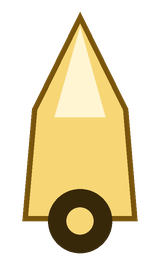
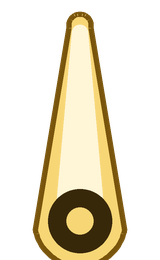
fix(pointer): draw and push the tongue like something hung on a pin
The tongue's silhouette was a free-hand curve that knew nothing about the
pin it turns on: the pin was a dot stamped somewhere near the base, its
radius meant nothing to the body, and the body's back lobe had no reason to
be the shape it was. It did not read as a hinge because it was not one.

GraphicsPointerSkin now builds every shape from one body: the hull of a
boss circle centred exactly on the pin and a tip circle whose far edge
lands exactly on `length`, so the pin-to-tip distance the ring seats the
pointer by is the distance you can measure on screen. New `pinRadius`
sizes the pin; the boss grows to clear it, so a fat pin gives a heavier
hinge, and the pin is drawn as a cap with a hole rather than a filled dot.
'triangle' and 'needle' come off the same construction.

The contact model was equally free with the geometry: it deflected the
tongue from a peg ring that could be anywhere, including under the tip or
outside the pin, where no peg could reach it. `Pointer` now checks that the
peg ring runs between the pin and the tip, and stays still with one warning
if it does not. New `Pointer.tipRadius` and `Pointer.reaches(pegs)`.

The anatomy figure had it backwards too - pegs drawn deeper than the tip -
and is redrawn to real proportions: pegs just inside the rim, the tip past
them, the pin outside the wheel, and the lever the peg actually turns.

diff --git a/packages/pixi-wheels/src/pointer/GraphicsPointerSkin.ts b/packages/pixi-wheels/src/pointer/GraphicsPointerSkin.ts
@@ -18,6 +18,39 @@ export interface GraphicsPointerSkinOptions {
   shape?: 'tongue' | 'triangle' | 'needle';
   /** Draw the pin cap at the base. Default true. */
   pin?: boolean;
+  /**
+   * Radius of the pin the flapper is hung on, px. The boss - the round heel
+   * the pin sits in - is sized to clear it, so a fat pin gives a heavier
+   * looking hinge. Default a little under a quarter of `width`.
+   */
+  pinRadius?: number;
+}
+
+/**
+ * Outline the convex hull of two circles: the boss around the pin at the
+ * origin, and the tip `L` away. Every shape here is that hull, which is what
+ * a flapper hung on a pin actually looks like - a round heel the pin turns
+ * in, tapering to whatever the tip is. The far edge of the tip circle lands
+ * exactly on `L`, so the pin-to-tip length the ring seats the pointer by is
+ * the length you can measure on screen.
+ */
+function hingedBody(g: Graphics, L: number, boss: number, tip: number): void {
+  const centre = Math.max(1, L - tip);
+  if (centre <= Math.abs(boss - tip)) {
+    // Degenerate: the tip circle is swallowed by the boss. Draw the boss alone.
+    g.circle(0, 0, Math.max(boss, tip));
+    return;
+  }
+  const a = Math.asin((boss - tip) / centre);
+  const sin = Math.sin(a);
+  const cos = Math.cos(a);
+  const near = Math.atan2(-cos, -sin); // where the upper tangent leaves a circle
+  const far = Math.atan2(cos, -sin); //  and where the lower one does
+  g.moveTo(-boss * sin, -boss * cos);
+  g.lineTo(centre - tip * sin, -tip * cos);
+  g.arc(centre, 0, tip, near, far, false); // round the tip, front first
+  g.arc(0, 0, boss, far, near, false); //    round the heel, behind the pin
+  g.closePath();
 }
 
 /** A pointer drawn with `Graphics`. The out-of-the-box tongue. */
@@ -37,24 +70,18 @@ export class GraphicsPointerSkin implements PointerSkin {
     const g = this._body;
     const L = this.length;
     const w = width / 2;
-    if (shape === 'triangle') {
-      g.moveTo(-w * 0.4, -w).lineTo(L, 0).lineTo(-w * 0.4, w).closePath();
-    } else if (shape === 'needle') {
-      g.moveTo(0, -w * 0.25).lineTo(L, 0).lineTo(0, w * 0.25).closePath();
-    } else {
-      // Tongue: a rounded base tapering to a soft point.
-      g.moveTo(-w * 0.9, 0);
-      g.bezierCurveTo(-w * 0.9, -w, 0, -w, w * 0.6, -w * 0.85);
-      g.bezierCurveTo(L * 0.55, -w * 0.55, L * 0.85, -w * 0.2, L, 0);
-      g.bezierCurveTo(L * 0.85, w * 0.2, L * 0.55, w * 0.55, w * 0.6, w * 0.85);
-      g.bezierCurveTo(0, w, -w * 0.9, w, -w * 0.9, 0);
-      g.closePath();
-    }
+    const pinRadius = Math.max(2.5, options.pinRadius ?? width * 0.22);
+    // The boss has to hold the pin: never thinner than the pin plus a wall.
+    const boss = Math.max(pinRadius * 1.55, shape === 'needle' ? w * 0.5 : w);
+    const tip = shape === 'tongue' ? w * 0.2 : Math.max(1.2, w * 0.07);
+    hingedBody(g, L, boss, tip);
     g.fill({ color });
     if (outline !== null) g.stroke({ color: outline, width: outlineWidth, join: 'round' });
     if (options.pin ?? true) {
-      g.circle(0, 0, Math.max(3, w * 0.32)).fill({ color: outline ?? 0x000000, alpha: 0.85 });
-      g.circle(0, 0, Math.max(1.5, w * 0.16)).fill({ color, alpha: 0.9 });
+      // A pin, not a dot: a cap with a hole, centred on the axis it turns about.
+      g.circle(0, 0, pinRadius).fill({ color: outline ?? 0x000000, alpha: 0.85 });
+      g.circle(0, 0, pinRadius * 0.45).fill({ color, alpha: 0.95 });
+      if (outline !== null) g.circle(0, 0, pinRadius).stroke({ color: outline, width: Math.max(1, outlineWidth * 0.5) });
     }
     this.view.addChild(g);
   }

diff --git a/packages/pixi-wheels/src/pointer/Pointer.ts b/packages/pixi-wheels/src/pointer/Pointer.ts
@@ -5,6 +5,7 @@ import type { RingGeometry } from '../core/RingGeometry.js';
 import { localAngleUnderPointer } from '../core/RingGeometry.js';
 import { DEG_TO_RAD, RAD_TO_DEG, clamp, normalizeDeg, signedDeg } from '../utils/angles.js';
 import type { Disposable } from '../utils/Disposable.js';
+import { noticeWarnOnce } from '../utils/notify.js';
 import type { PointerSkin } from './PointerSkin.js';
 
 /** A divider crossing, as `Pointer.update()` reports it. */
@@ -35,6 +36,7 @@ export class Pointer implements Disposable {
   readonly skin: PointerSkin;
   private readonly _flap: Required<FlapConfig> | null;
   private _pinRadius = 0;
+  private _tipRadius = 0;
   private _deflection = 0;
   private _deflectionVel = 0;
   private _drag = 0;
@@ -62,12 +64,14 @@ export class Pointer implements Disposable {
       const tipRadius = outerRadius - this.tipInset;
       const baseRadius = tipRadius + this.skin.length;
       this._pinRadius = baseRadius;
+      this._tipRadius = tipRadius;
       this.view.position.set(Math.cos(a) * baseRadius, Math.sin(a) * baseRadius);
       this.view.rotation = a + Math.PI;
     } else {
       const tipRadius = innerRadius + this.tipInset;
       const baseRadius = tipRadius - this.skin.length;
       this._pinRadius = baseRadius;
+      this._tipRadius = tipRadius;
       this.view.position.set(Math.cos(a) * baseRadius, Math.sin(a) * baseRadius);
       this.view.rotation = a;
     }
@@ -101,6 +105,23 @@ export class Pointer implements Disposable {
   /** Distance from the pin to the hub, px, after `layout()`. */
   get pinRadius(): number {
     return this._pinRadius;
+  }
+
+  /** Distance from the tip to the hub, px, after `layout()`. */
+  get tipRadius(): number {
+    return this._tipRadius;
+  }
+
+  /**
+   * True when the peg ring runs under the tongue somewhere between its pin
+   * and its tip, which is the only way a peg can push it. Pegs deeper than
+   * the tip pass beneath it; pegs beyond the pin would have to strike the
+   * heel, which is not a thing a flapper does.
+   */
+  reaches(pegs: ResolvedPegs): boolean {
+    const lo = Math.min(this._pinRadius, this._tipRadius);
+    const hi = Math.max(this._pinRadius, this._tipRadius);
+    return pegs.radius >= lo && pegs.radius <= hi;
   }
 
   /** Half the width of the contact zone at the peg ring, px: peg radius plus half the tongue tip. */
@@ -176,7 +197,21 @@ export class Pointer implements Disposable {
    */
   private _contact(rotation: number, dt: number, pegs: ResolvedPegs, crossingCount: number): void {
     const f = this._flap!;
+    if (!this.reaches(pegs)) {
+      // Nothing to push it: let it settle rather than deflect out of thin air.
+      noticeWarnOnce(
+        `pointer-reach-${this.id}`,
+        `Pointer "${this.id}": the pegs sit at radius ${Math.round(pegs.radius)}, outside the tongue's ` +
+          `${Math.round(Math.min(this._tipRadius, this._pinRadius))}..${Math.round(Math.max(this._tipRadius, this._pinRadius))} reach, ` +
+          'so nothing touches it. Change pegs.inset, tipInset or the skin length.',
+      );
+      this._engaged = null;
+      this._releaseDrag(dt);
+      this._stepSpring(dt);
+      return;
+    }
     const c = this.contactHalfWidth(pegs);
+    // The lever: pin to the peg ring. A long tongue turns less for the same shove.
     const D = Math.max(1, Math.abs(this._pinRadius - pegs.radius));
     let bestIndex = -1;
     let bestX = Number.POSITIVE_INFINITY;

diff --git a/packages/pixi-wheels/tests/integration/pegs.test.ts b/packages/pixi-wheels/tests/integration/pegs.test.ts
@@ -43,6 +43,42 @@ describe('pegs', () => {
     }
   });
 
+  it('a peg ring the tongue cannot reach never moves it', () => {
+    // Default tipInset 18 and a 60 px skin put the tongue between r=182 and r=242.
+    const deep = createTestWheel({ sections: 6, startAngle: 0, pegs: { size: 6, inset: 40 } });
+    try {
+      const tongue = deep.wheel.main.pointers[0];
+      expect(deep.wheel.main.pegs!.radius).toBe(160);
+      expect(tongue.tipRadius).toBe(182);
+      expect(tongue.pinRadius).toBe(242);
+      expect(tongue.reaches(deep.wheel.main.pegs!)).toBe(false);
+      void deep.wheel.spin();
+      deep.wheel.setResult({ index: 1 });
+      while (deep.wheel.isSpinning) {
+        deep.ticker.tick(16);
+        expect(tongue.deflection).toBe(0);
+      }
+    } finally {
+      deep.destroy();
+    }
+
+    const ok = createTestWheel({ sections: 6, startAngle: 0, pegs: { size: 6, inset: 12 } });
+    try {
+      const tongue = ok.wheel.main.pointers[0];
+      expect(tongue.reaches(ok.wheel.main.pegs!)).toBe(true);
+      let peak = 0;
+      void ok.wheel.spin();
+      ok.wheel.setResult({ index: 1 });
+      while (ok.wheel.isSpinning) {
+        ok.ticker.tick(16);
+        peak = Math.max(peak, Math.abs(tongue.deflection));
+      }
+      expect(peak).toBeGreaterThan(1);
+    } finally {
+      ok.destroy();
+    }
+  });
+
   it('pegs(false) leaves the tongue still, and pegs round-trip through the config', () => {
     const ticker = new FakeTicker() as unknown as Ticker;
     // Config-shaped skins, so the wheel round-trips through toConfig() / fromConfig().

diff --git a/packages/pixi-wheels/src/testing/testHarness.ts b/packages/pixi-wheels/src/testing/testHarness.ts
@@ -59,6 +59,8 @@ export interface TestWheelOptions {
   skip?: SkipConfig;
   idle?: IdleConfig;
   dynamic?: Parameters<RingBuilder['dynamic']>[0];
+  /** Pegs for the main ring. Default: the builder's own (one per divider). */
+  pegs?: Parameters<RingBuilder['pegs']>[0];
   /** Extra rings. Each gets the headless skin and pointer. */
   rings?: Array<{ id: string; outerRadius: number; innerRadius: number; sections: WheelSectionConfig[]; direction?: SpinDirection; pointers?: PointerConfig[] }>;
   /** Random source. Default a fixed seeded generator, so tests are deterministic. */
@@ -126,6 +128,7 @@ export function createTestWheel(options: TestWheelOptions = {}): TestWheelHandle
   if (options.skip) builder.skip(options.skip);
   if (options.idle) builder.idle(options.idle);
   if (options.dynamic) builder.dynamic(options.dynamic);
+  if (options.pegs !== undefined) builder.pegs(options.pegs);
   for (const r of options.rings ?? []) {
     builder.ring(r.id, (rb) => {
       rb.radius(r.outerRadius, r.innerRadius).sections(r.sections).skin(new HeadlessRingSkin());

diff --git a/apps/site/src/styles/global.css b/apps/site/src/styles/global.css
@@ -173,6 +173,7 @@
     --fig-line: hsl(var(--foreground) / 0.22);
     --fig-wash: hsl(var(--foreground) / 0.05);
     --fig-key: #a9740c;
+    --fig-hole: hsl(var(--background));
   }
   .dark {
     --fig-line: hsl(var(--foreground) / 0.26);

diff --git a/tools/doc-figures/build_figures.py b/tools/doc-figures/build_figures.py
@@ -145,6 +145,29 @@ def arc_path(cx, cy, r, a0, a1):
     return f"M{f(x0)},{f(y0)} A{f(r)},{f(r)} 0 {large} {sweep} {f(x1)},{f(y1)}"
 
 
+def hinged_points(px, py, tx, ty, boss, tip, steps=36):
+    """The outline of a flapper hung on a pin: the hull of the boss circle at
+    the pin and the tip circle, sampled as a polygon. Same construction as
+    GraphicsPointerSkin, so the figure and the code agree."""
+    dx, dy = tx - px, ty - py
+    d = math.hypot(dx, dy)
+    ux, uy = dx / d, dy / d
+    nx, ny = -uy, ux
+    c = d - tip
+    a = math.asin(max(-1.0, min(1.0, (boss - tip) / c)))
+    to_global = lambda lx, ly: (px + lx * ux + ly * nx, py + lx * uy + ly * ny)
+    th1 = math.atan2(-math.cos(a), -math.sin(a))
+    th2 = math.atan2(math.cos(a), -math.sin(a))
+    pts = [to_global(-boss * math.sin(a), -boss * math.cos(a))]
+    for i in range(steps + 1):
+        th = th1 + (th2 - th1) * i / steps
+        pts.append(to_global(c + tip * math.cos(th), tip * math.sin(th)))
+    for i in range(steps + 1):
+        th = th2 + (th1 + 2 * math.pi - th2) * i / steps
+        pts.append(to_global(boss * math.cos(th), boss * math.sin(th)))
+    return pts
+
+
 # ------------------------------------------------------------- disc diagrams
 
 def fig_disc_layers():
@@ -324,38 +347,43 @@ def fig_label_slot():
 # ----------------------------------------------------------- tongue diagrams
 
 def fig_tongue_anatomy():
-    s = Svg(380, "Where the tongue sits and what it touches")
+    s = Svg(430, "Where the tongue sits and what it touches")
     s.markers()
-    cx, cy, R = 400, 720, 540
+    # Real proportions: the pegs sit just inside the rim, the tip reaches past
+    # them, and the pin floats outside the wheel entirely.
+    cx, cy, R = 400, 920, 640
+    peg_r = R - 26
+    tip_r = R - 46
+    pin_r = tip_r + 152
+
     s.circle(cx, cy, R, stroke=INK, width=2)
-    peg_r = R - 42
     s.circle(cx, cy, peg_r, stroke=LINE, width=1.3, dash="5 5")
-    for k in range(-5, 6):
-        x, y = polar(cx, cy, peg_r, -90 + k * 8)
-        s.circle(x, y, 11, fill=WASH, stroke=KEY, width=1.8)
+    for k in range(-4, 5):
+        x, y = polar(cx, cy, peg_r, -90 + k * 7)
+        s.circle(x, y, 13, fill=WASH, stroke=KEY, width=2)
 
-    tipy = cy - (R - 22)
-    piny = tipy - 104
-    s.path(
-        f"M{cx - 26},{f(piny)} C{cx - 28},{f(piny + 52)} {cx - 16},{f(tipy - 14)} {cx},{f(tipy)} "
-        f"C{cx + 16},{f(tipy - 14)} {cx + 28},{f(piny + 52)} {cx + 26},{f(piny)} z",
-        fill=WASH, stroke=INK, width=2.4,
-    )
-    s.circle(cx, piny, 8, fill=INK)
+    piny, tipy = cy - pin_r, cy - tip_r
+    pts = hinged_points(cx, piny, cx, tipy, 34, 9)
+    s.path("M" + " L".join(f"{f(x)},{f(y)}" for x, y in pts) + " Z", fill=WASH, stroke=INK, width=2.4)
+    s.circle(cx, piny, 15, fill=INK)
+    s.circle(cx, piny, 6.5, fill="var(--fig-hole, #fff)")
 
-    s.leader(cx, piny, 548, piny - 26, "pin: the pivot", INK)
-    s.leader(cx, tipy, 548, tipy + 52, "tip", INK)
-    s.arrow(cx + 150, piny, cx + 150, tipy, KEY, 1.8, both=True)
-    s.mono(cx + 162, (piny + tipy) / 2 + 5, "skin.length", KEY)
-    s.arrow(cx - 150, tipy, cx - 150, cy - R, KEY, 1.8, both=True)
-    s.mono(cx - 162, (tipy + cy - R) / 2 + 5, "tipInset", KEY, anchor="end")
-    s.line(150, cy - R, 790, cy - R, LINE, 1.2, dash="4 4")
-    s.text(14, cy - R + 5, "the rim", MUTED, 13.5)
-    s.line(150, cy - peg_r, 790, cy - peg_r, LINE, 1.2, dash="4 4")
-    s.mono(14, cy - peg_r + 5, "R - pegs.inset", MUTED, 13.5)
+    # rules across, named on the left where there is room
+    for radius, label, mono in ((R, "the rim", False), (peg_r, "R - pegs.inset", True), (tip_r, "R - tipInset", True)):
+        y = cy - radius
+        s.line(180, y, 792, y, LINE, 1.2, dash="4 4")
+        (s.mono if mono else s.text)(14, y + 5, label, MUTED if mono else MUTED, 13.5)
+
+    s.arrow(cx + 132, piny, cx + 132, tipy, KEY, 1.8, both=True)
+    s.mono(cx + 144, (piny + tipy) / 2 + 5, "skin.length", KEY)
+    s.arrow(cx - 132, cy - peg_r, cx - 132, piny, KEY, 1.8, both=True)
+    s.text(cx - 144, (piny + cy - peg_r) / 2 + 5, "the lever the peg turns", KEY, 13.5, anchor="end")
+    s.leader(cx, piny, cx + 60, piny - 46, "pin: pinRadius of boss to turn in", INK)
+    s.leader(cx, tipy, 560, tipy + 44, "tip", INK)
+
     px, py = polar(cx, cy, peg_r, -90)
-    s.arrow(px - 34, py + 52, px + 34, py + 52, KEY, 1.8, both=True)
-    s.text(cx, py + 76, "contact width 2c", KEY, 14, anchor="middle")
+    s.arrow(px - 40, py + 62, px + 40, py + 62, KEY, 1.8, both=True)
+    s.text(cx, py + 86, "contact width 2c", KEY, 14, anchor="middle")
     s.save(TONGUE / "anatomy.svg")
 
 
@@ -365,15 +393,13 @@ def fig_tongue_art():
     bx, by, bw, bh = 250, 28, 200, 264
     s.rect(bx, by, bw, bh, stroke=LINE, width=1.6, dash="6 5")
     cxp = bx + bw / 2
-    s.path(
-        f"M{f(cxp)},{by + 16} C{f(cxp + 38)},{by + 118} {f(cxp + 44)},{by + 192} {f(cxp + 33)},{by + 232} "
-        f"L{f(cxp - 33)},{by + 232} C{f(cxp - 44)},{by + 192} {f(cxp - 38)},{by + 118} {f(cxp)},{by + 16} z",
-        fill=WASH, stroke=INK, width=2.4,
-    )
     piny = by + bh * 0.85
+    pts = hinged_points(cxp, piny, cxp, by + 16, 40, 10)
+    s.path("M" + " L".join(f"{f(x)},{f(y)}" for x, y in pts) + " Z", fill=WASH, stroke=INK, width=2.4)
     s.line(bx - 6, piny, bx + bw + 6, piny, LINE, 1.2, dash="4 4")
     s.line(cxp, by - 6, cxp, by + bh + 6, LINE, 1.2, dash="4 4")
-    s.circle(cxp, piny, 6, fill=KEY)
+    s.circle(cxp, piny, 15, fill=KEY)
+    s.circle(cxp, piny, 6.5, fill="var(--fig-hole, #fff)")
     s.leader(cxp, piny, bx + bw + 30, piny + 4, "pin { x: 0.5, y: 0.85 }", KEY)
     s.leader(cxp, by + 16, bx + bw + 30, by + 18, "tip on the top edge: artDirection 'up'", INK)
     s.arrow(bx - 34, piny, bx - 34, by + 16, KEY, 1.8, both=True)
@@ -653,11 +679,11 @@ def tex_tongue_gold(size=(160, 260)):
     d = ImageDraw.Draw(img)
     w, h = size[0] * SS, size[1] * SS
     tip, pin_y = h * 0.045, h * 0.85
-    d.polygon(
-        [(w / 2, tip), (w * 0.80, h * 0.42), (w * 0.86, pin_y), (w * 0.14, pin_y), (w * 0.20, h * 0.42)],
-        fill=GOLD_LIT, outline=(120, 84, 12, 255), width=int(w * 0.035),
-    )
-    d.polygon([(w / 2, tip + h * 0.06), (w * 0.66, h * 0.45), (w * 0.34, h * 0.45)], fill=(255, 244, 206, 235))
+    boss, tip_r = w * 0.30, w * 0.085
+    pts = hinged_points(w / 2, pin_y, w / 2, tip, boss, tip_r, steps=48)
+    d.polygon(pts, fill=GOLD_LIT, outline=(120, 84, 12, 255), width=int(w * 0.035))
+    inner = hinged_points(w / 2, pin_y - h * 0.02, w / 2, tip + h * 0.05, boss * 0.52, tip_r * 0.6, steps=48)
+    d.polygon(inner, fill=(255, 244, 206, 210))
     _pin_cap(d, w, h, pin_y, (56, 40, 10, 255), GOLD_LIT)
     _save(img, size, TONGUE / "tongue.png", "the default gold tongue, tip up, pin at 0.5 / 0.85")
 

diff --git a/.changeset/tongue-hinge.md b/.changeset/tongue-hinge.md
@@ -1,0 +1,5 @@
+---
+"pixi-wheels": minor
+---
+
+The tongue is drawn and pushed like something actually hung on a pin. `GraphicsPointerSkin` builds every shape from one body - a boss around the pin, tapering to the tip, with the tip's far edge exactly `length` from the pin - instead of a free-hand curve that ignored both. New `pinRadius` option sizes the pin; the boss grows to clear it, and the pin is drawn as a cap with a hole rather than a dot. `Pointer` now checks that the peg ring runs between the pin and the tip before deflecting: pegs deeper than the tip, or outside the pin, cannot touch the tongue, so it stays still and says so once instead of swinging from nothing. New `Pointer.tipRadius` and `Pointer.reaches(pegs)`, and `createTestWheel({ pegs })` in the test harness.
